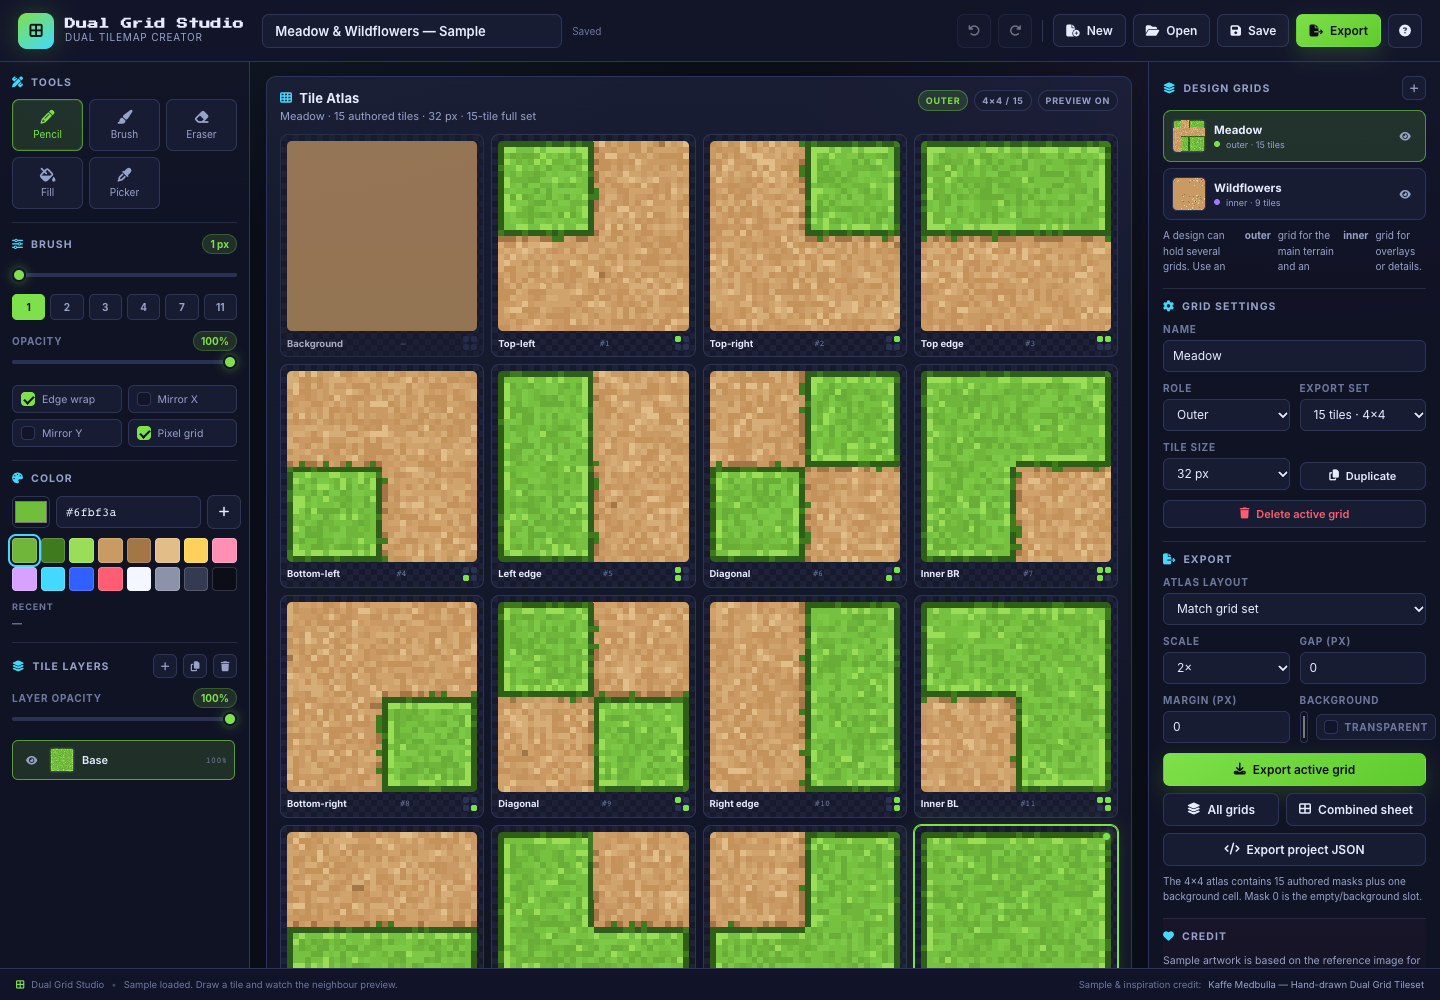
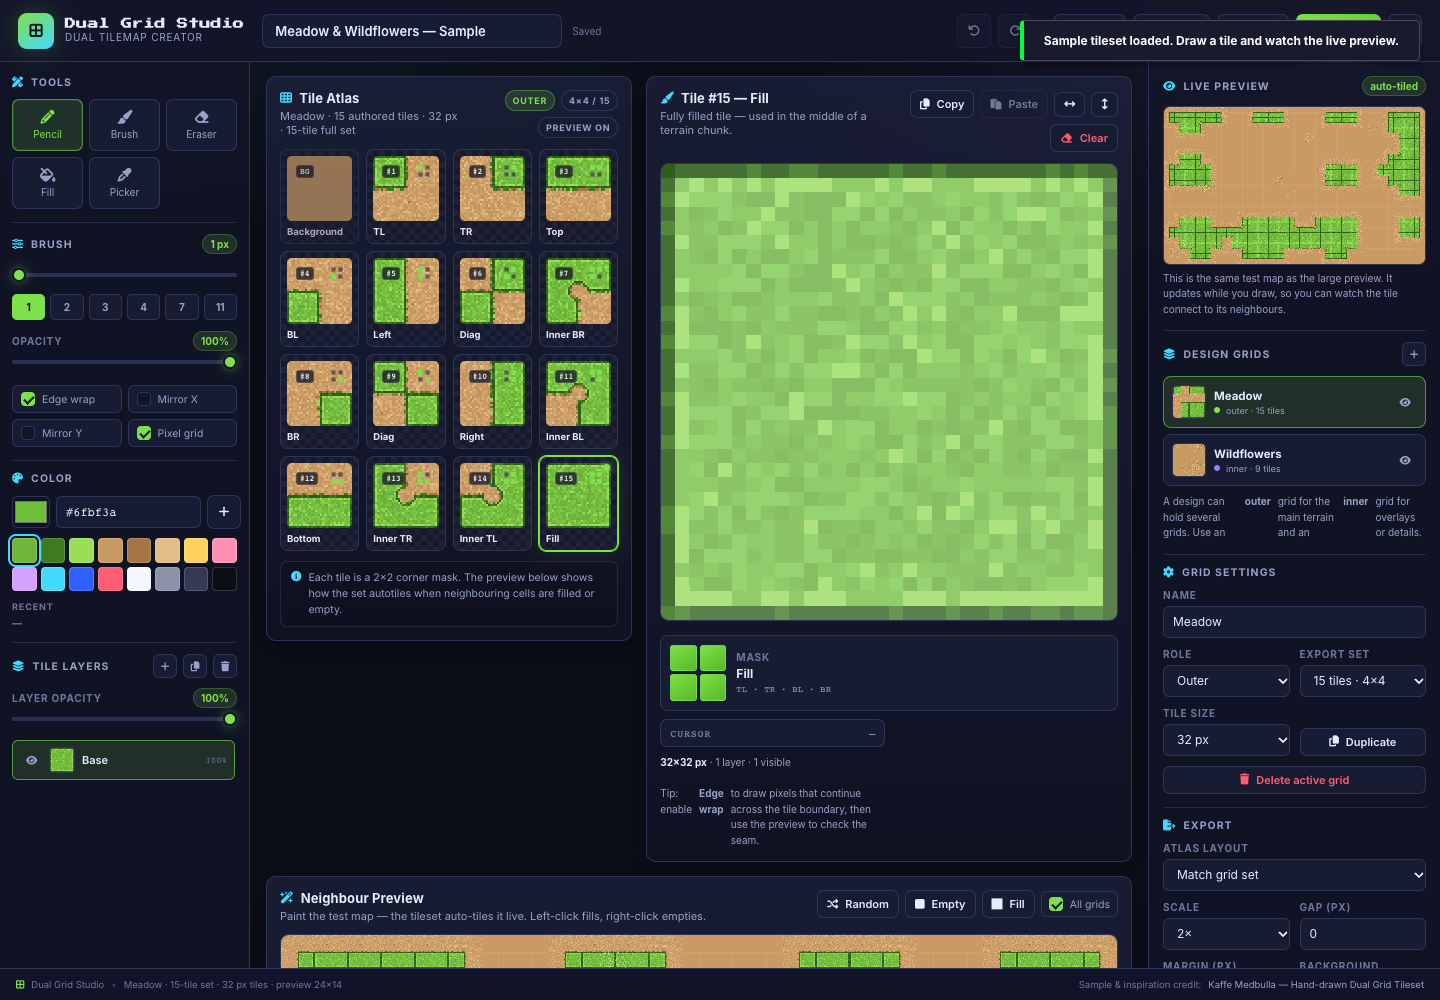
fix

diff --git a/js/dual-studio.js b/js/dual-studio.js
@@ -73,7 +73,10 @@
             this.ensureSelectedMask();
             this.renderAll();
             this.updateHistoryButtons();
-            this.setFooter('Sample loaded. Draw a tile and watch the neighbour preview.');
+            this.updateFooter();
+            if (!loaded) {
+                this.notify('success', 'Sample tileset loaded. Draw a tile and watch the live preview.');
+            }
 
             console.log('Dual Grid Studio ready');
         },
@@ -89,7 +92,7 @@
                 'dsAtlasGrid', 'dsAtlasSubtitle', 'dsAtlasBadges', 'dsEditorCanvas', 'dsEditorStage',
                 'dsEditorTitle', 'dsEditorSubtitle', 'dsCopyTileBtn', 'dsPasteTileBtn', 'dsFlipHBtn',
                 'dsFlipVBtn', 'dsClearTileBtn', 'dsMaskDiagram', 'dsMaskTitle', 'dsMaskBits',
-                'dsCoords', 'dsTileInfo', 'dsPreviewCanvas', 'dsPreviewStage', 'dsPreviewHint',
+                'dsCoords', 'dsTileInfo', 'dsPreviewCanvas', 'dsMiniPreviewCanvas', 'dsPreviewStage', 'dsPreviewHint',
                 'dsRandomMapBtn', 'dsClearMapBtn', 'dsFillMapBtn', 'dsShowAllGrids', 'dsGridList',
                 'dsAddGridBtn', 'dsGridName', 'dsGridRole', 'dsGridMode', 'dsTileSize',
                 'dsDuplicateGridBtn', 'dsDeleteGridBtn', 'dsExportLayout', 'dsExportScale',
@@ -105,6 +108,7 @@
 
             this.els.editorCtx = this.els.dsEditorCanvas.getContext('2d');
             this.els.previewCtx = this.els.dsPreviewCanvas.getContext('2d');
+            this.els.miniPreviewCtx = this.els.dsMiniPreviewCanvas.getContext('2d');
         },
 
         /* --------------------------------------------------------
@@ -1121,6 +1125,22 @@
                 canvas.height = size;
                 wrap.appendChild(canvas);
 
+                const indexBadge = document.createElement('span');
+                indexBadge.className = 'ds-atlas-index';
+                indexBadge.textContent = mask === 0 ? 'BG' : `#${mask}`;
+                wrap.appendChild(indexBadge);
+
+                if (mask !== 0) {
+                    const bitDots = document.createElement('span');
+                    bitDots.className = 'ds-atlas-bit-dots';
+                    [1, 2, 4, 8].forEach(bit => {
+                        const dot = document.createElement('i');
+                        dot.className = mask & bit ? 'on' : '';
+                        bitDots.appendChild(dot);
+                    });
+                    wrap.appendChild(bitDots);
+                }
+
                 const meta = document.createElement('div');
                 meta.className = 'ds-atlas-meta';
 
@@ -1129,21 +1149,7 @@
                 name.textContent = mask === 0 ? 'Background' : Core.MASK_SHORT[mask];
                 name.title = Core.MASK_NAMES[mask];
 
-                const maskLabel = document.createElement('span');
-                maskLabel.className = 'ds-atlas-mask';
-                maskLabel.textContent = mask === 0 ? '—' : `#${mask}`;
-
                 meta.appendChild(name);
-                meta.appendChild(maskLabel);
-
-                const bits = document.createElement('div');
-                bits.className = 'ds-atlas-bits';
-                [1, 2, 4, 8].forEach(bit => {
-                    const dot = document.createElement('span');
-                    dot.className = 'ds-bit-dot' + (mask & bit ? ' on' : '');
-                    bits.appendChild(dot);
-                });
-                meta.appendChild(bits);
 
                 cell.appendChild(wrap);
                 cell.appendChild(meta);
@@ -1512,6 +1518,18 @@
                     );
                     ctx.restore();
                 }
+            }
+
+            const mini = this.els.dsMiniPreviewCanvas;
+            if (mini) {
+                if (mini.width !== width || mini.height !== height) {
+                    mini.width = width;
+                    mini.height = height;
+                }
+                const miniCtx = this.els.miniPreviewCtx;
+                miniCtx.imageSmoothingEnabled = false;
+                miniCtx.clearRect(0, 0, width, height);
+                miniCtx.drawImage(canvas, 0, 0);
             }
 
             this.updatePreviewHint();

diff --git a/js/dual-core.js b/js/dual-core.js
@@ -49,9 +49,9 @@ window.DualCore = (function () {
     };
 
     const MASK_SHORT = {
-        0: 'Empty', 1: 'Top-left', 2: 'Top-right', 3: 'Top edge', 4: 'Bottom-left',
-        5: 'Left edge', 6: 'Diagonal', 7: 'Inner BR', 8: 'Bottom-right', 9: 'Diagonal',
-        10: 'Right edge', 11: 'Inner BL', 12: 'Bottom edge', 13: 'Inner TR',
+        0: 'Background', 1: 'TL', 2: 'TR', 3: 'Top', 4: 'BL',
+        5: 'Left', 6: 'Diag', 7: 'Inner BR', 8: 'BR', 9: 'Diag',
+        10: 'Right', 11: 'Inner BL', 12: 'Bottom', 13: 'Inner TR',
         14: 'Inner TL', 15: 'Fill'
     };
 
@@ -357,6 +357,23 @@ window.DualCore = (function () {
             }
         }
 
+        // Round the concave inner corner of three-corner masks.
+        // This is internal to the tile, so it cannot create seams.
+        if (popcount(mask) === 3) {
+            const radius = Math.max(2, size / 8);
+            const cx = size / 2;
+            const cy = size / 2;
+            for (let y = 0; y < size; y++) {
+                for (let x = 0; x < size; x++) {
+                    const dx = x + 0.5 - cx;
+                    const dy = y + 0.5 - cy;
+                    if (dx * dx + dy * dy <= radius * radius) {
+                        filled[y * size + x] = 0;
+                    }
+                }
+            }
+        }
+
         const at = (x, y) => (x >= 0 && y >= 0 && x < size && y < size ? filled[y * size + x] : 0);
 
         for (let y = 0; y < size; y++) {
@@ -371,10 +388,10 @@ window.DualCore = (function () {
 
                     // Dark seam along an internal grass/dirt boundary.
                     if (!at(x - 1, y) || !at(x + 1, y) || !at(x, y - 1) || !at(x, y + 1)) {
-                        color = h > 0.82 ? SAMPLE.grassDark : SAMPLE.grassDeep;
+                        color = h > 0.7 ? SAMPLE.grassDark : SAMPLE.grassDeep;
                     } else if (!at(x - 2, y) || !at(x + 2, y) || !at(x, y - 2) || !at(x, y + 2)) {
-                        color = h > 0.5 ? SAMPLE.grassLight : SAMPLE.grass[1];
-                    } else if (h > 0.965) {
+                        color = h > 0.42 ? SAMPLE.grassLight : SAMPLE.grass[1];
+                    } else if (h > 0.94) {
                         color = SAMPLE.grassLight;
                     }
                 } else {
@@ -382,17 +399,17 @@ window.DualCore = (function () {
 
                     // Shadow and a few grass tufts spilling onto the dirt.
                     const touchesGrass = at(x - 1, y) || at(x + 1, y) || at(x, y - 1) || at(x, y + 1);
-                    if (touchesGrass && h > 0.48) {
+                    if (touchesGrass && h > 0.36) {
                         color = SAMPLE.dirtDark;
-                    } else if (touchesGrass && h > 0.3) {
+                    } else if (touchesGrass && h > 0.24) {
                         color = SAMPLE.dirt[0];
-                    } else if (h > 0.94) {
+                    } else if (h > 0.92) {
                         color = SAMPLE.dirtLight;
                     }
 
-                    // Ragged grass fringe: a few 1px blades reach into the dirt.
-                    if (touchesGrass && h > 0.86) {
-                        color = SAMPLE.grassDark;
+                    // Ragged grass fringe: blades and little tufts reach into the dirt.
+                    if (touchesGrass && h > 0.62) {
+                        color = h > 0.9 ? SAMPLE.grassLight : SAMPLE.grassDark;
                     }
                 }
 

diff --git a/css/dual-studio.css b/css/dual-studio.css
@@ -976,6 +976,67 @@ a:hover {
     image-rendering: crisp-edges;
 }
 
+.ds-atlas-index {
+    position: absolute;
+    left: 9px;
+    top: 9px;
+    z-index: 2;
+    font-family: var(--mono);
+    font-size: 8px;
+    font-weight: 700;
+    color: var(--text);
+    background: rgba(11, 13, 23, 0.72);
+    border: 1px solid rgba(255, 255, 255, 0.14);
+    border-radius: 3px;
+    padding: 1px 3px;
+    pointer-events: none;
+}
+
+.ds-atlas-bit-dots {
+    position: absolute;
+    right: 9px;
+    top: 9px;
+    z-index: 2;
+    display: grid;
+    grid-template-columns: 1fr 1fr;
+    gap: 2px;
+    width: 12px;
+    height: 12px;
+    pointer-events: none;
+}
+
+.ds-atlas-bit-dots i {
+    display: block;
+    border-radius: 1px;
+    background: rgba(11, 13, 23, 0.5);
+    border: 1px solid rgba(255, 255, 255, 0.2);
+}
+
+.ds-atlas-bit-dots i.on {
+    background: var(--green);
+    border-color: rgba(126, 224, 74, 0.7);
+}
+
+.ds-mini-preview-stage {
+    width: 100%;
+    border-radius: 7px;
+    overflow: hidden;
+    border: 1px solid var(--line);
+    background: var(--bg-1);
+}
+
+.ds-mini-preview-stage canvas {
+    display: block;
+    width: 100%;
+    height: auto;
+    image-rendering: pixelated;
+    image-rendering: crisp-edges;
+}
+
+.ds-live-section .ds-small-hint {
+    margin-top: 6px;
+}
+
 .ds-atlas-cell.selected-marker {
     position: relative;
 }
@@ -1046,7 +1107,7 @@ a:hover {
 .ds-editor-stage {
     position: relative;
     width: 100%;
-    max-width: 640px;
+    max-width: 520px;
     aspect-ratio: 1;
     border-radius: 9px;
     border: 1px solid var(--line);
@@ -1485,6 +1546,44 @@ kbd {
     font-family: var(--mono);
     font-size: 10px;
     color: var(--text);
+}
+
+/* ================= WIDE CENTER LAYOUT ================= */
+
+@media (min-width: 1100px) {
+    .ds-center-scroll {
+        display: grid;
+        grid-template-columns: minmax(310px, 0.86fr) minmax(390px, 1.14fr);
+        align-items: start;
+        gap: 14px;
+    }
+
+    .ds-atlas-card,
+    .ds-editor-card {
+        min-width: 0;
+    }
+
+    .ds-preview-card {
+        grid-column: 1 / -1;
+    }
+
+    .ds-editor-layout {
+        grid-template-columns: minmax(0, 1fr);
+    }
+
+    .ds-editor-side {
+        display: grid;
+        grid-template-columns: 1fr 1fr;
+        gap: 8px;
+    }
+
+    .ds-mask-card {
+        grid-column: span 2;
+    }
+
+    .ds-tile-info {
+        grid-column: span 2;
+    }
 }
 
 /* ================= RESPONSIVE ================= */

diff --git a/index.html b/index.html
@@ -230,6 +230,20 @@
 
             <!-- ---------- RIGHT PANEL ---------- -->
             <aside class="ds-right ds-panel">
+                <section class="ds-section ds-live-section">
+                    <div class="ds-section-head">
+                        <h2><i class="fas fa-eye"></i> Live Preview</h2>
+                        <span class="ds-pill">auto-tiled</span>
+                    </div>
+                    <div class="ds-mini-preview-stage">
+                        <canvas id="dsMiniPreviewCanvas" width="800" height="480"></canvas>
+                    </div>
+                    <p class="ds-hint ds-small-hint">
+                        This is the same test map as the large preview. It updates while you draw,
+                        so you can watch the tile connect to its neighbours.
+                    </p>
+                </section>
+
                 <section class="ds-section">
                     <div class="ds-section-head">
                         <h2><i class="fas fa-layer-group"></i> Design Grids</h2>
